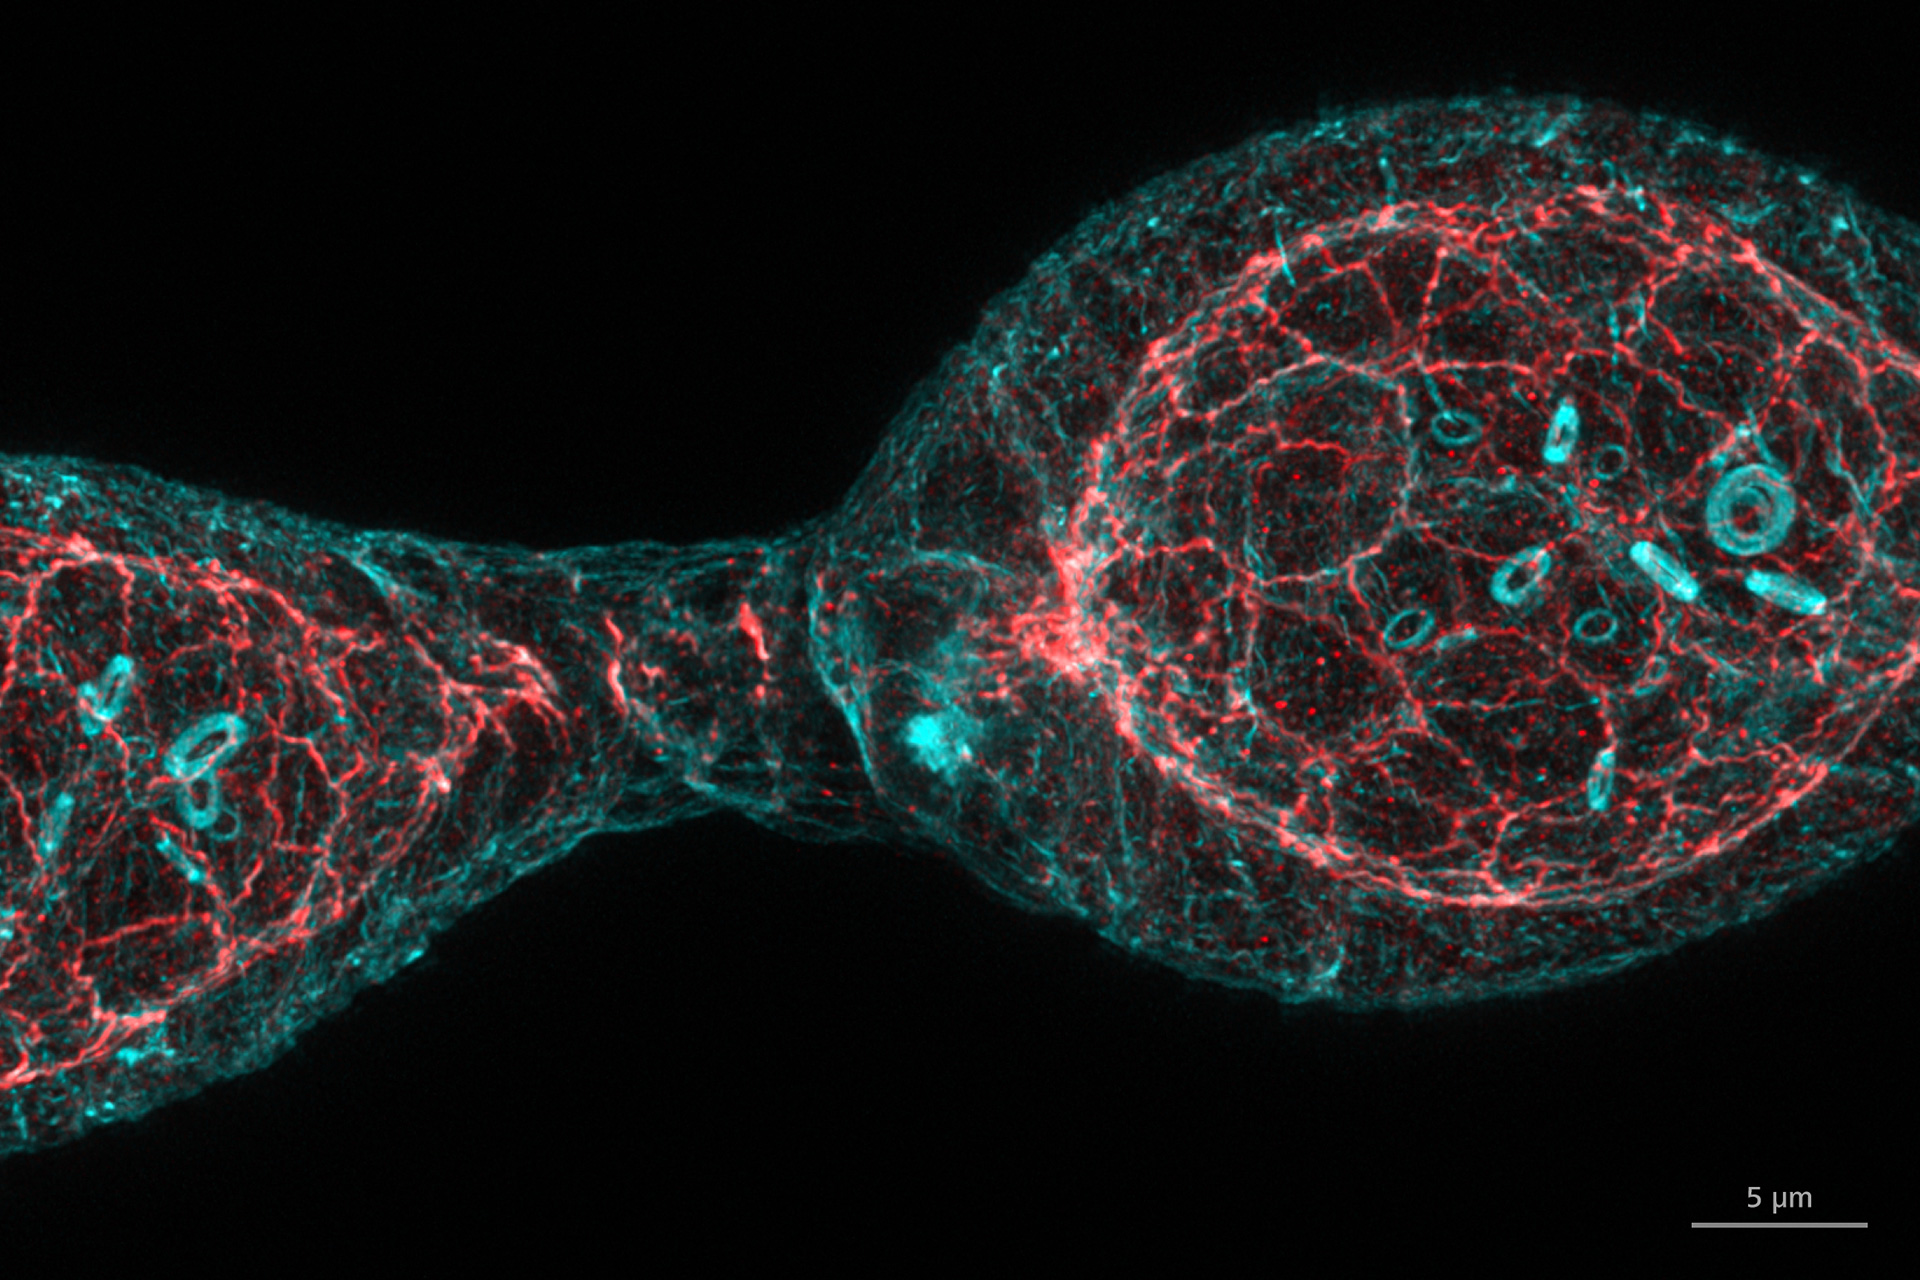
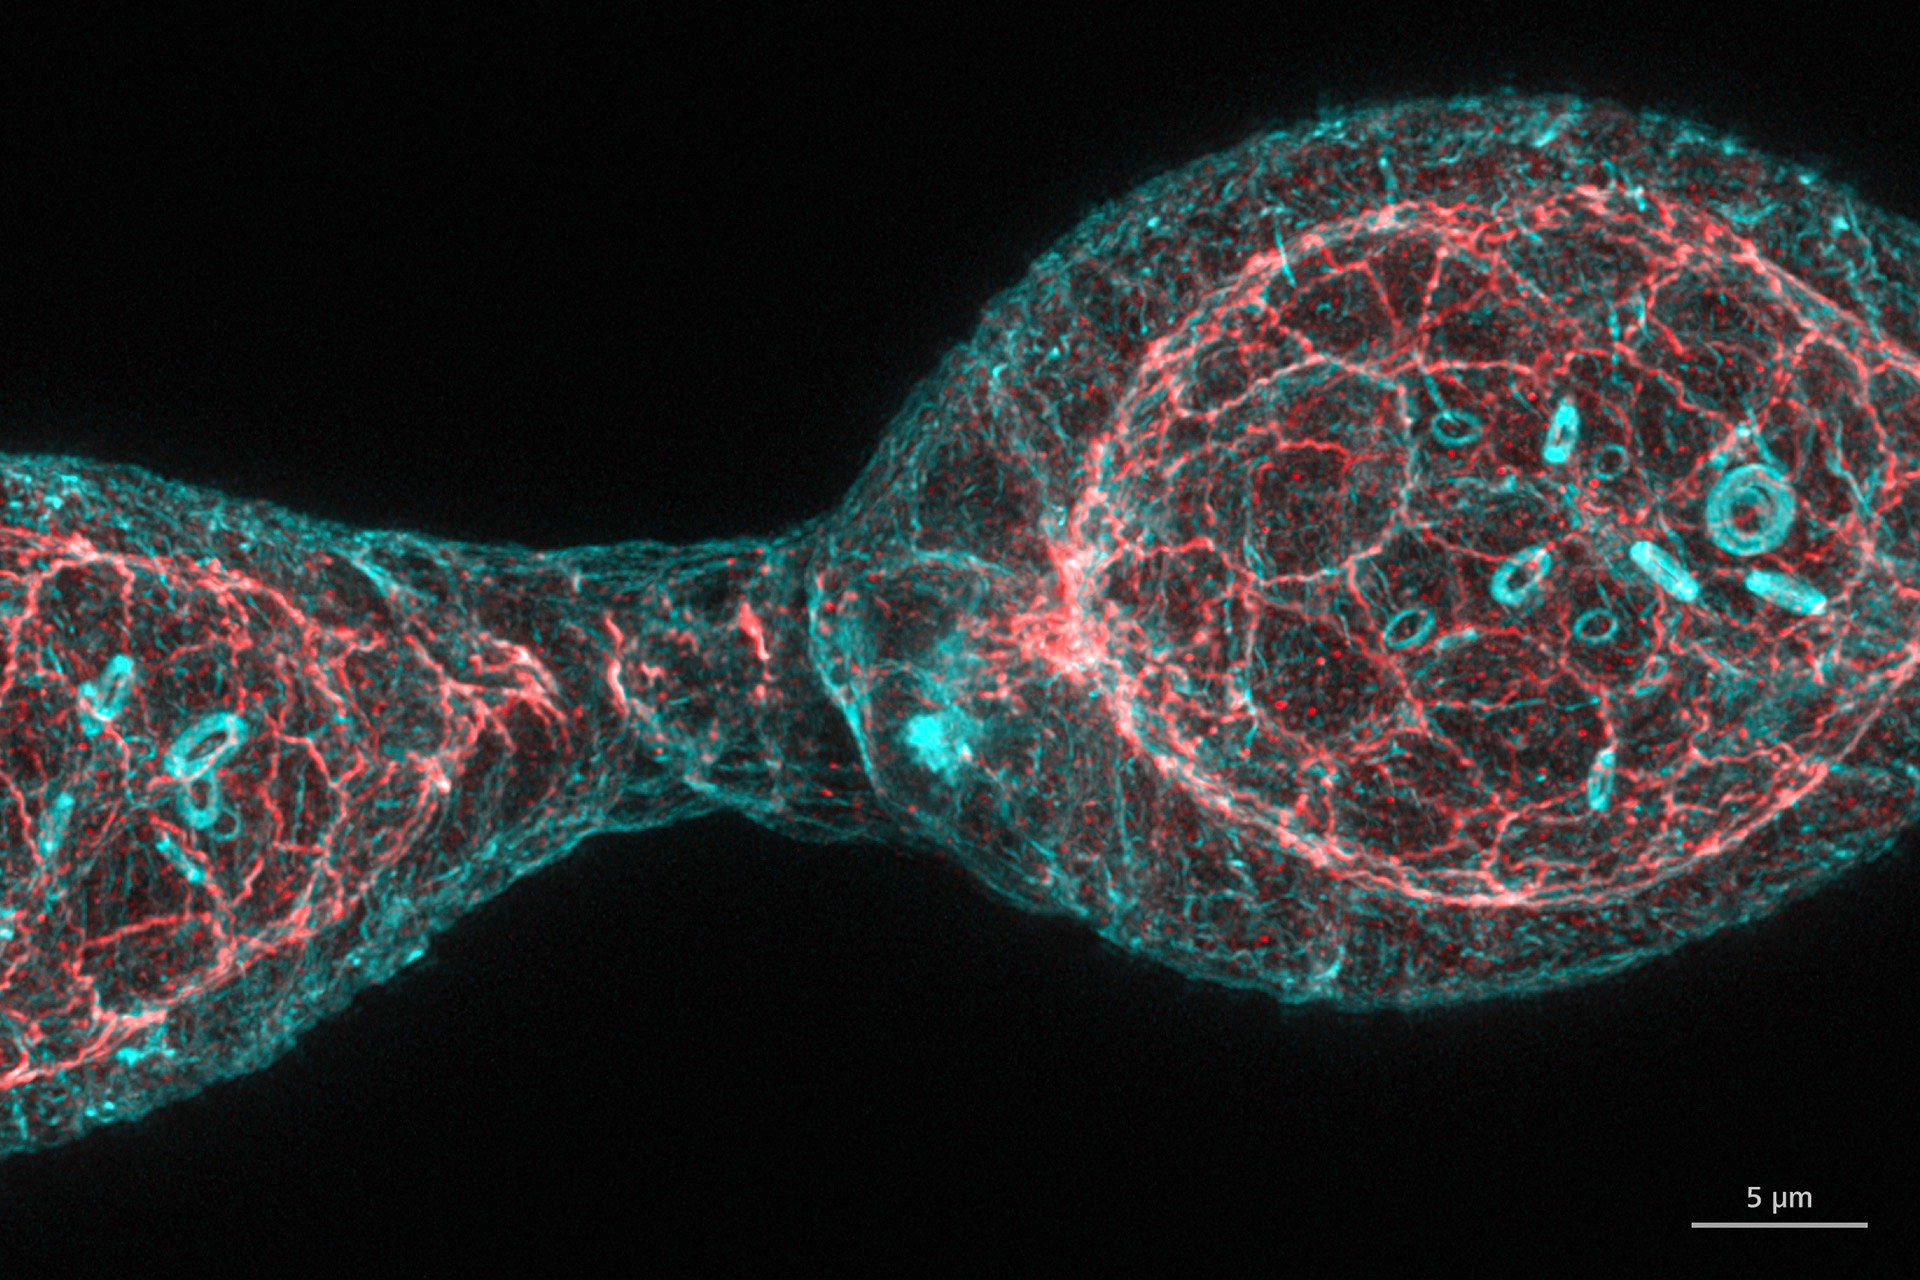
Brighten Drosophila egg chamber page-hero image
- Re-tone images/airyscan-drosophila-egg-chamber.jpg: stretch signal to
  ~95% and lift midtones (mean luminance 30 -> 43); background stays dark.
- Lighten the page-hero overlay (flat 50% -> 45%/20%/5% left-to-right)
  and add text shadows so hero titles stay readable.

Claude-Session: https://claude.ai/code/session_012K9Act5Hq4ErHRSsn5XHht

diff --git a/styles.css b/styles.css
@@ -1633,6 +1633,14 @@ nav a { padding: 0 0.62rem; }
 }
 
 /* Page heroes */
+.page-hero::before {
+  background-image:
+    linear-gradient(90deg, rgba(10,10,15,0.45) 0%, rgba(10,10,15,0.2) 50%, rgba(10,10,15,0.05) 100%),
+    linear-gradient(rgba(255,255,255,0.015) 1px, transparent 1px),
+    linear-gradient(90deg, rgba(255,255,255,0.015) 1px, transparent 1px);
+}
+.page-hero h1 { text-shadow: 0 2px 6px rgba(0,0,0,0.6), 0 0 24px rgba(0,0,0,0.45); }
+.page-hero p, .page-hero .eyebrow { text-shadow: 0 1px 3px rgba(0,0,0,0.85); }
 .page-hero .eyebrow { font-size: 0.8rem; font-weight: 600; }
 .page-hero p { font-size: 1.15rem; font-weight: 400; color: rgba(255,255,255,0.82); }
 
